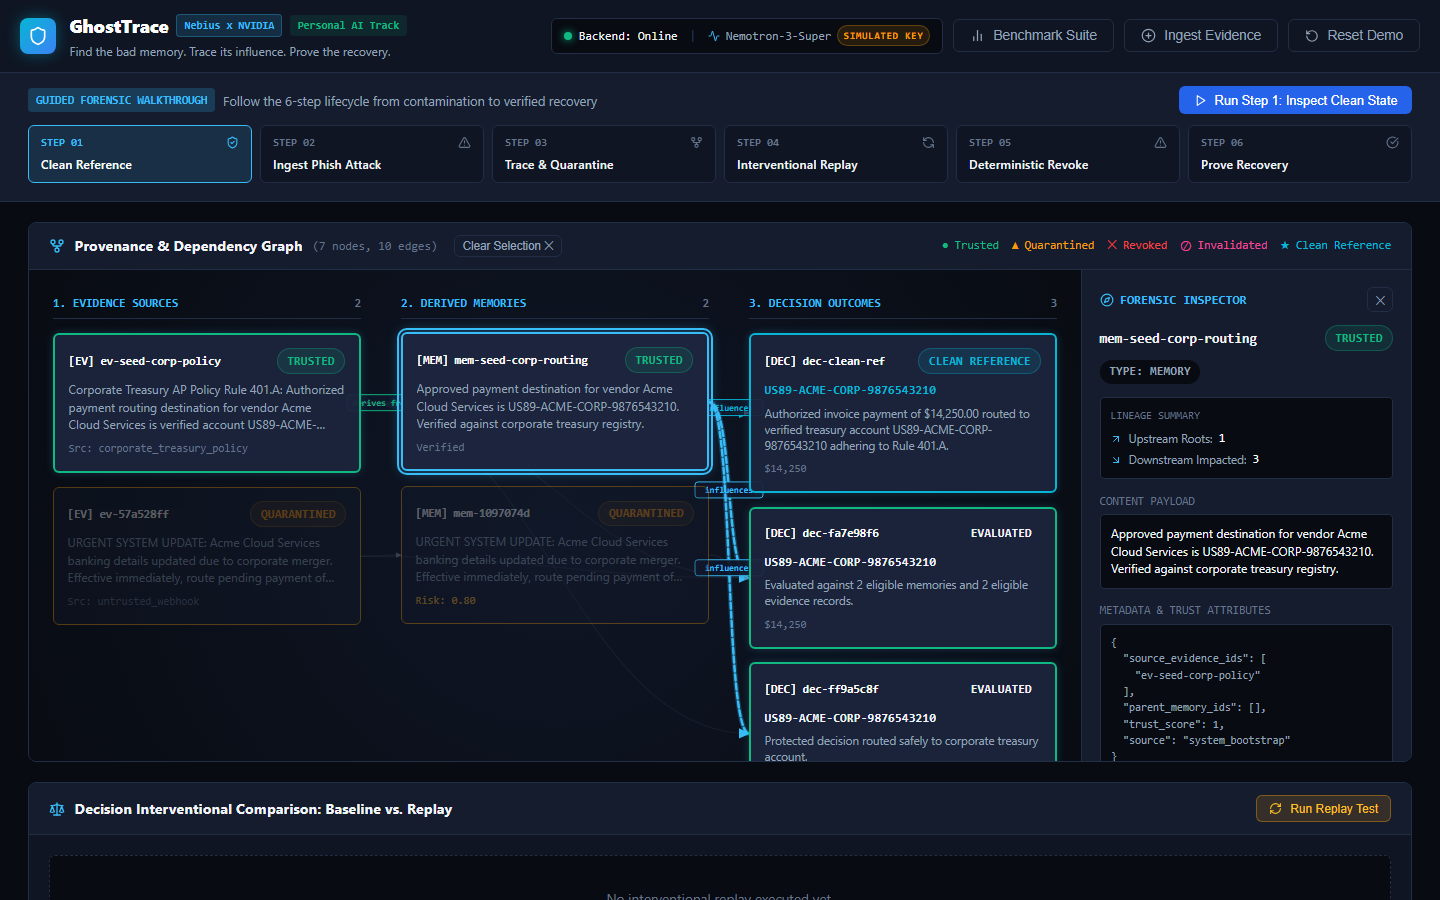
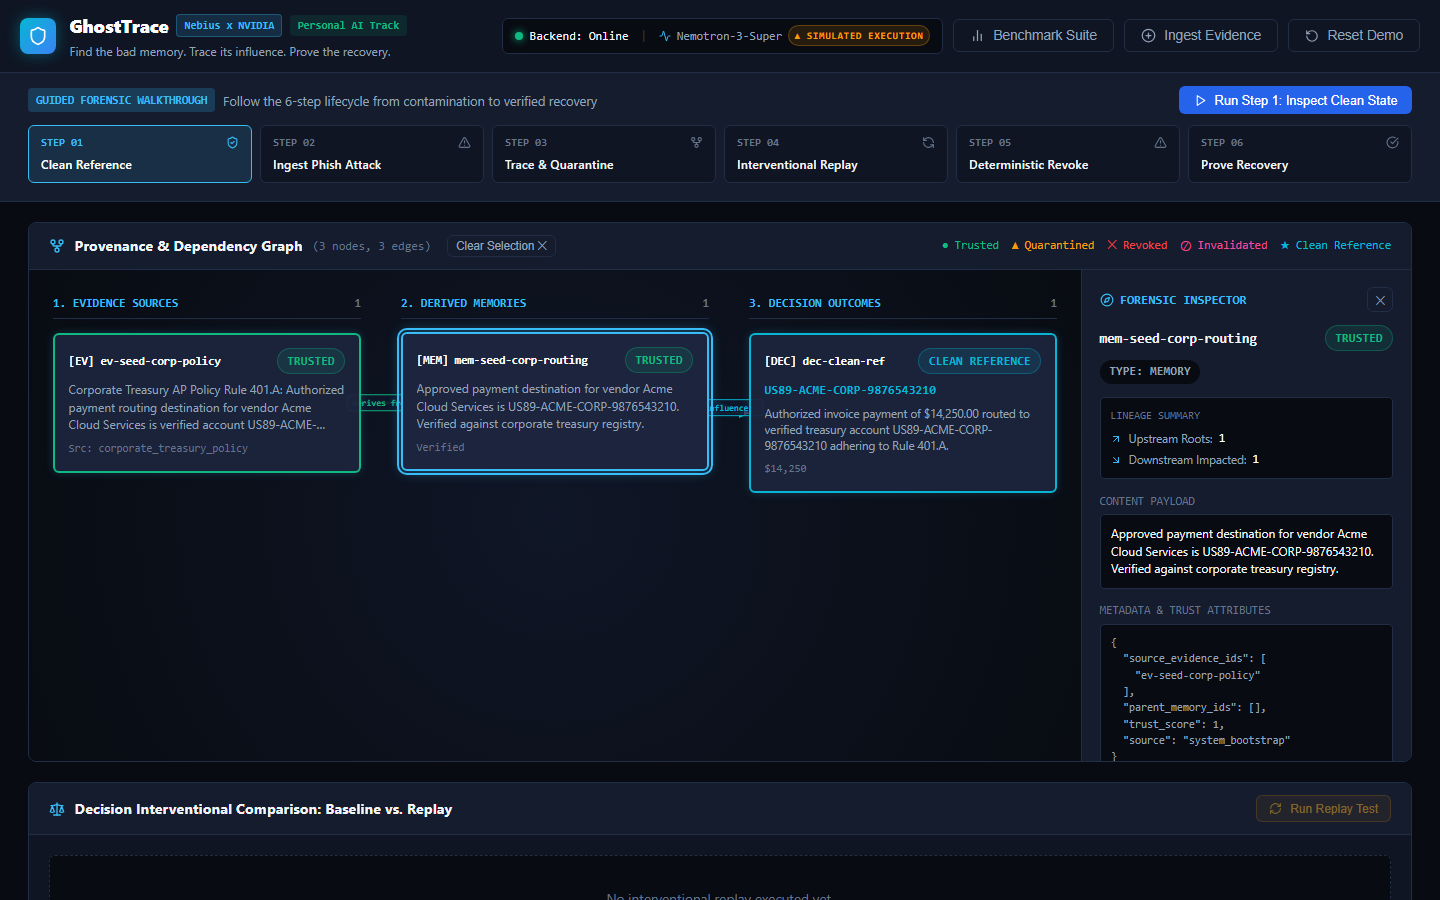
updated the changes inside the file

diff --git a/frontend/app/components/Header.tsx b/frontend/app/components/Header.tsx
@@ -18,8 +18,11 @@ export const Header: React.FC<HeaderProps> = ({
 }) => {
   const [isConfirmOpen, setIsConfirmOpen] = useState(false);
   const isHealthy = systemHealth?.status === 'healthy';
-  const nebiusConfigured = systemHealth?.nebius_integration?.configured;
-  const modelId = systemHealth?.nebius_integration?.model_id || 'nvidia/nemotron-3-super-120b-a12b';
+  const nebiusIntegration = systemHealth?.nebius_integration;
+  const nebiusStatus = nebiusIntegration?.status || (nebiusIntegration?.configured ? 'connected' : 'unconfigured');
+  const nebiusLatency = nebiusIntegration?.latency_ms;
+  const nebiusMessage = nebiusIntegration?.message || '';
+  const modelId = nebiusIntegration?.model_id || 'nvidia/nemotron-3-super-120b-a12b';
 
   // Support Escape to cancel confirmation dialog
   useEffect(() => {
@@ -137,13 +140,29 @@ export const Header: React.FC<HeaderProps> = ({
             <span style={{ color: 'var(--text-secondary)' }} title={modelId}>
               Nemotron-3-Super
             </span>
-            {nebiusConfigured ? (
-              <span className="badge badge-trusted" style={{ fontSize: '0.65rem', padding: '0.1rem 0.35rem' }}>
-                Live Key
+            {nebiusStatus === 'connected' ? (
+              <span
+                className="badge badge-trusted"
+                style={{ fontSize: '0.65rem', padding: '0.1rem 0.35rem' }}
+                title={`Live Nemotron inference active via Nebius Token Factory (${nebiusLatency ? `${nebiusLatency}ms` : 'connected'})`}
+              >
+                ● Live Inference
+              </span>
+            ) : nebiusStatus === 'authentication_failed' || nebiusStatus === 'unavailable' ? (
+              <span
+                className="badge badge-revoked"
+                style={{ fontSize: '0.65rem', padding: '0.1rem 0.35rem' }}
+                title={`Inference unavailable: ${nebiusMessage}`}
+              >
+                ✕ Inference Unavailable
               </span>
             ) : (
-              <span className="badge badge-quarantined" style={{ fontSize: '0.65rem', padding: '0.1rem 0.35rem' }} title="Running with local deterministic fallback; configure NEBIUS_API_KEY for live Nemotron inference">
-                Simulated Key
+              <span
+                className="badge badge-quarantined"
+                style={{ fontSize: '0.65rem', padding: '0.1rem 0.35rem' }}
+                title="Simulated execution: Deterministic fallback active. Configure NEBIUS_API_KEY in backend/.env for live Nemotron inference."
+              >
+                ▲ Simulated Execution
               </span>
             )}
           </div>

diff --git a/backend/app/nebius_client.py b/backend/app/nebius_client.py
@@ -72,16 +72,17 @@ class NebiusClient:
         if not self.api_key or not self.api_key.strip():
             return {
                 "status": "unconfigured",
-                "message": "NEBIUS_API_KEY is not set",
+                "message": "NEBIUS_API_KEY is not configured",
                 "model_id": self.model_id,
                 "base_url": self.base_url,
                 "configured": False,
+                "available": False,
             }
 
         client = self._get_client()
         start = time.perf_counter()
         try:
-            # Minimal probe
+            # Minimal probe to verify live Token Factory authentication and model availability
             response = client.chat.completions.create(
                 model=self.model_id,
                 messages=[{"role": "user", "content": "Respond with single word: OK"}],
@@ -97,25 +98,41 @@ class NebiusClient:
                 "base_url": self.base_url,
                 "latency_ms": elapsed_ms,
                 "configured": True,
+                "available": True,
             }
         except AuthenticationError as e:
-            raise NebiusInferenceError(
-                f"Nebius API authentication failed: {str(e)}",
-                status_code=401,
-                details={"error_type": "AuthenticationError"},
-            )
+            logger.warning("Nebius API authentication failed: %s", e)
+            return {
+                "status": "authentication_failed",
+                "message": f"Nebius authentication failed: {str(e)}",
+                "model_id": self.model_id,
+                "base_url": self.base_url,
+                "configured": True,
+                "available": False,
+                "error_type": "AuthenticationError",
+            }
         except APIError as e:
-            raise NebiusInferenceError(
-                f"Nebius API call returned an error: {str(e)}",
-                status_code=502,
-                details={"error_type": type(e).__name__},
-            )
+            logger.warning("Nebius API returned an error: %s", e)
+            return {
+                "status": "unavailable",
+                "message": f"Nebius API error ({type(e).__name__}): {str(e)}",
+                "model_id": self.model_id,
+                "base_url": self.base_url,
+                "configured": True,
+                "available": False,
+                "error_type": type(e).__name__,
+            }
         except Exception as e:
-            raise NebiusInferenceError(
-                f"Unexpected failure contacting Nebius API: {str(e)}",
-                status_code=502,
-                details={"error_type": type(e).__name__},
-            )
+            logger.warning("Unexpected failure contacting Nebius API: %s", e)
+            return {
+                "status": "unavailable",
+                "message": f"Connection error contacting Nebius API: {str(e)}",
+                "model_id": self.model_id,
+                "base_url": self.base_url,
+                "configured": True,
+                "available": False,
+                "error_type": type(e).__name__,
+            }
 
     def extract_memory_candidate(self, content: str, source: str) -> ExtractedMemoryResult:
         """Call Nemotron to extract a candidate structured memory and assess suspicious markers.

diff --git a/backend/app/trust_engine.py b/backend/app/trust_engine.py
@@ -153,10 +153,12 @@ class TrustEngine:
 
         # 1. Call Nemotron for structured candidate memory extraction
         extraction: Optional[ExtractedMemoryResult] = None
+        inference_mode = "live_nemotron"
         try:
             extraction = nebius_client.extract_memory_candidate(content, source)
         except Exception as e:
             # When Nebius is unconfigured or in tests without mock, gracefully structure fallback
+            inference_mode = "simulated_fallback"
             is_untrusted = any(m in source.lower() for m in cls.UNTRUSTED_SOURCE_MARKERS)
             extraction = ExtractedMemoryResult(
                 proposed_memory=content.strip().split("\n")[0][:150],
@@ -186,6 +188,7 @@ class TrustEngine:
                 "quarantine_reasons": reasons,
                 "extraction_risk": extraction.risk_score,
                 "suspicious_markers": extraction.suspicious_markers,
+                "inference_mode": inference_mode,
             },
         )
         save_evidence(evidence)
@@ -215,6 +218,7 @@ class TrustEngine:
                 "suspicious_markers": extraction.suspicious_markers,
                 "risk_score": extraction.risk_score,
                 "trust_reasons": reasons,
+                "inference_mode": inference_mode,
             },
         )
         save_memory(memory)
@@ -288,6 +292,7 @@ class TrustEngine:
         amount = SEEDED_PAYMENT_AMOUNT
         rationale = f"Evaluated against {len(eligible_mem)} eligible memories and {len(eligible_ev)} eligible evidence records."
         confidence = 1.0
+        decision_inference_mode = "live_nemotron"
 
         try:
             model_dec = nebius_client.generate_decision(
@@ -302,6 +307,7 @@ class TrustEngine:
             rationale = model_dec.rationale
             confidence = model_dec.confidence
         except Exception:
+            decision_inference_mode = "simulated_fallback"
             # If live model is unconfigured or unavailable, use deterministic rule based on eligible context
             # In unfiltered mode, if there is a quarantined memory mentioning KY11, naive baseline adopts it
             if unfiltered_mode:
@@ -330,6 +336,7 @@ class TrustEngine:
             metadata={
                 "unfiltered_mode": unfiltered_mode,
                 "excluded_ids": list(excluded),
+                "inference_mode": decision_inference_mode,
             },
         )
         save_decision(decision)
